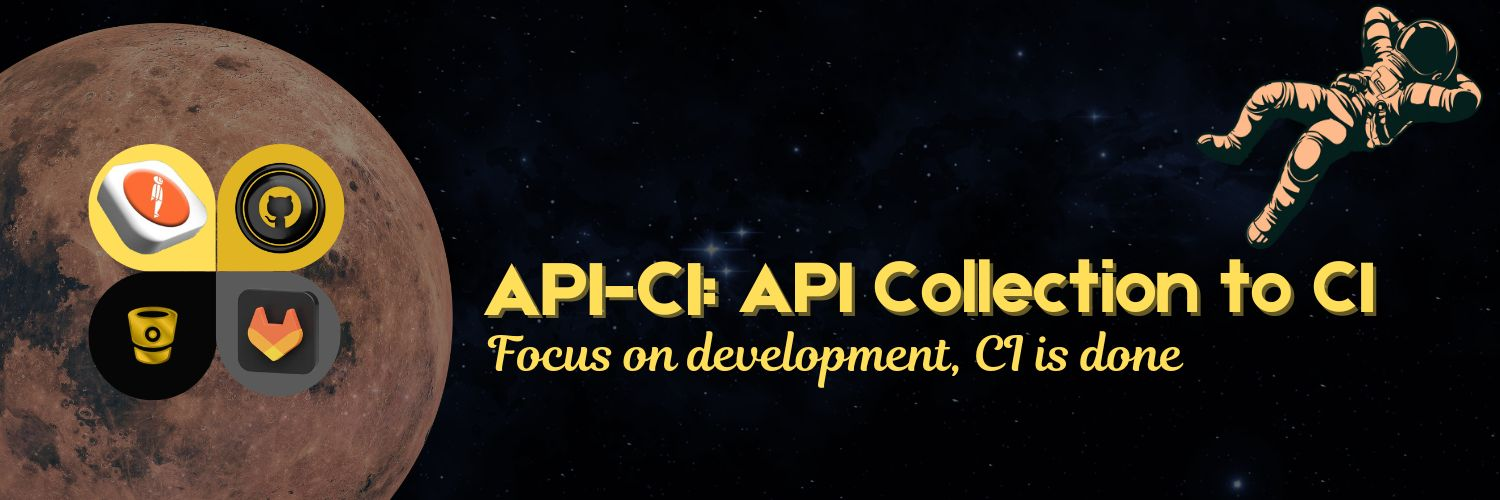
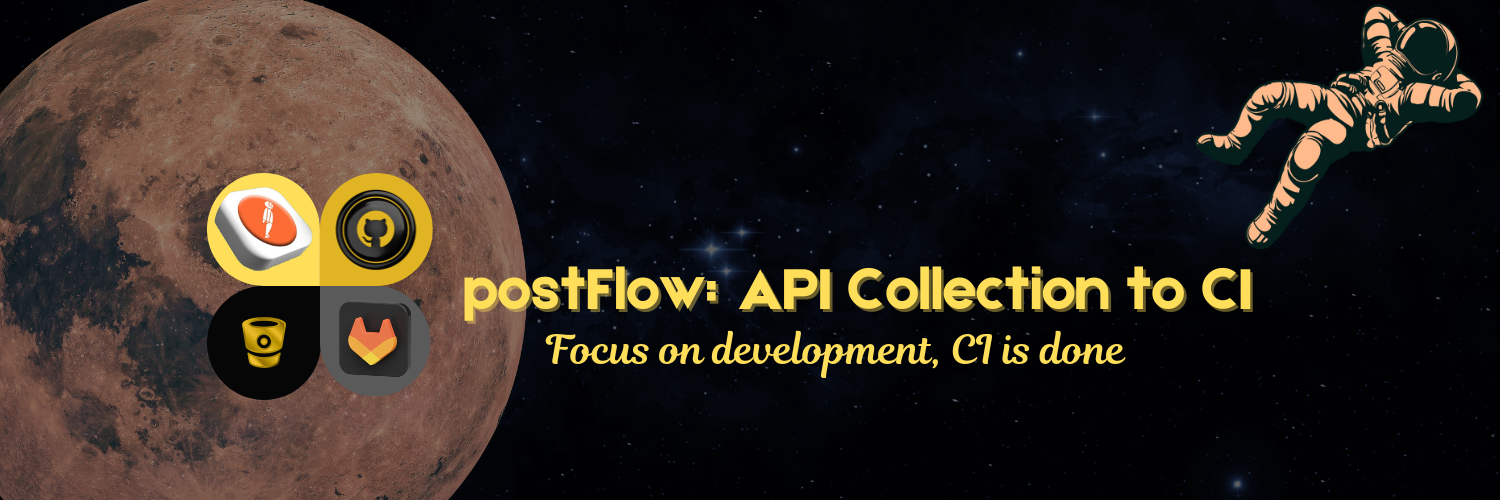
final

diff --git a/README.md b/README.md
@@ -4,10 +4,12 @@
 
 ## Overview
 
-API-CI removes the hassle of manually uploading Postman collections, whether they are from a UID or a saved file, into your CI/CD pipeline on GitHub, GitLab, or Bitbucket. It automates the process of exporting collections, setting up the required YAML pipeline, and making the initial commit, allowing you to focus on development rather than CI configuration.
+This project is a spin-off of this amazing [Python Package](https://pypi.org/project/postman-github-sync/) find the parent repository [here](https://github.com/BlazinArtemis/postman_to_github_actions). This brilliant SDET [Seyi 'nexus' Ajadi](https://github.com/BlazinArtemis) conceived the idea to ensure that engineers can focus on testing and creating collections while pipeline config will be handled via a simple Q&A. I merely expanded it to work on more pipelines.
+
+postFlow removes the hassle of manually uploading Postman collections, whether they are from a UID or a saved file, into your CI/CD pipeline on GitHub, GitLab, or Bitbucket. It automates the process of exporting collections, setting up the required YAML pipeline, and making the initial commit, allowing you to focus on development rather than CI configuration.
 
 ## Prerequisites
-To use API-CI, you will need:
+To use postFlow, you will need:
 -  Postman API Key.
 -  **GitHub Setup:** GitHub Personal Access Token  
 -  **GitLab Setup:** GitLab Personal Access Token 
@@ -62,7 +64,7 @@ export POSTMAN_API_KEY="your_postman_api_key"
 > For _**GitLab**_ and _**Bitbucket**_, replace **GITHUB** with **GITLAB** or **BITBUCKET** to have **GITLAB_TOKEN** or **BITBUCKET_TOKEN**
 
 ## Usage
-- `api-ci` to run generally whereby the user can select from the three pipelines
-- `api-ci --github` to run a GitHub setup pipeline.
-- `api-ci --gitlab` to run a GitLab setup pipeline.
-- `api-ci --bitbucket` to run a Bitbucket setup pipeline.
+- `postFlow` to run generally whereby the user can select from the three pipelines
+- `postFlow --github` to run a GitHub setup pipeline.
+- `postFlow --gitlab` to run a GitLab setup pipeline.
+- `postFlow --bitbucket` to run a Bitbucket setup pipeline.
